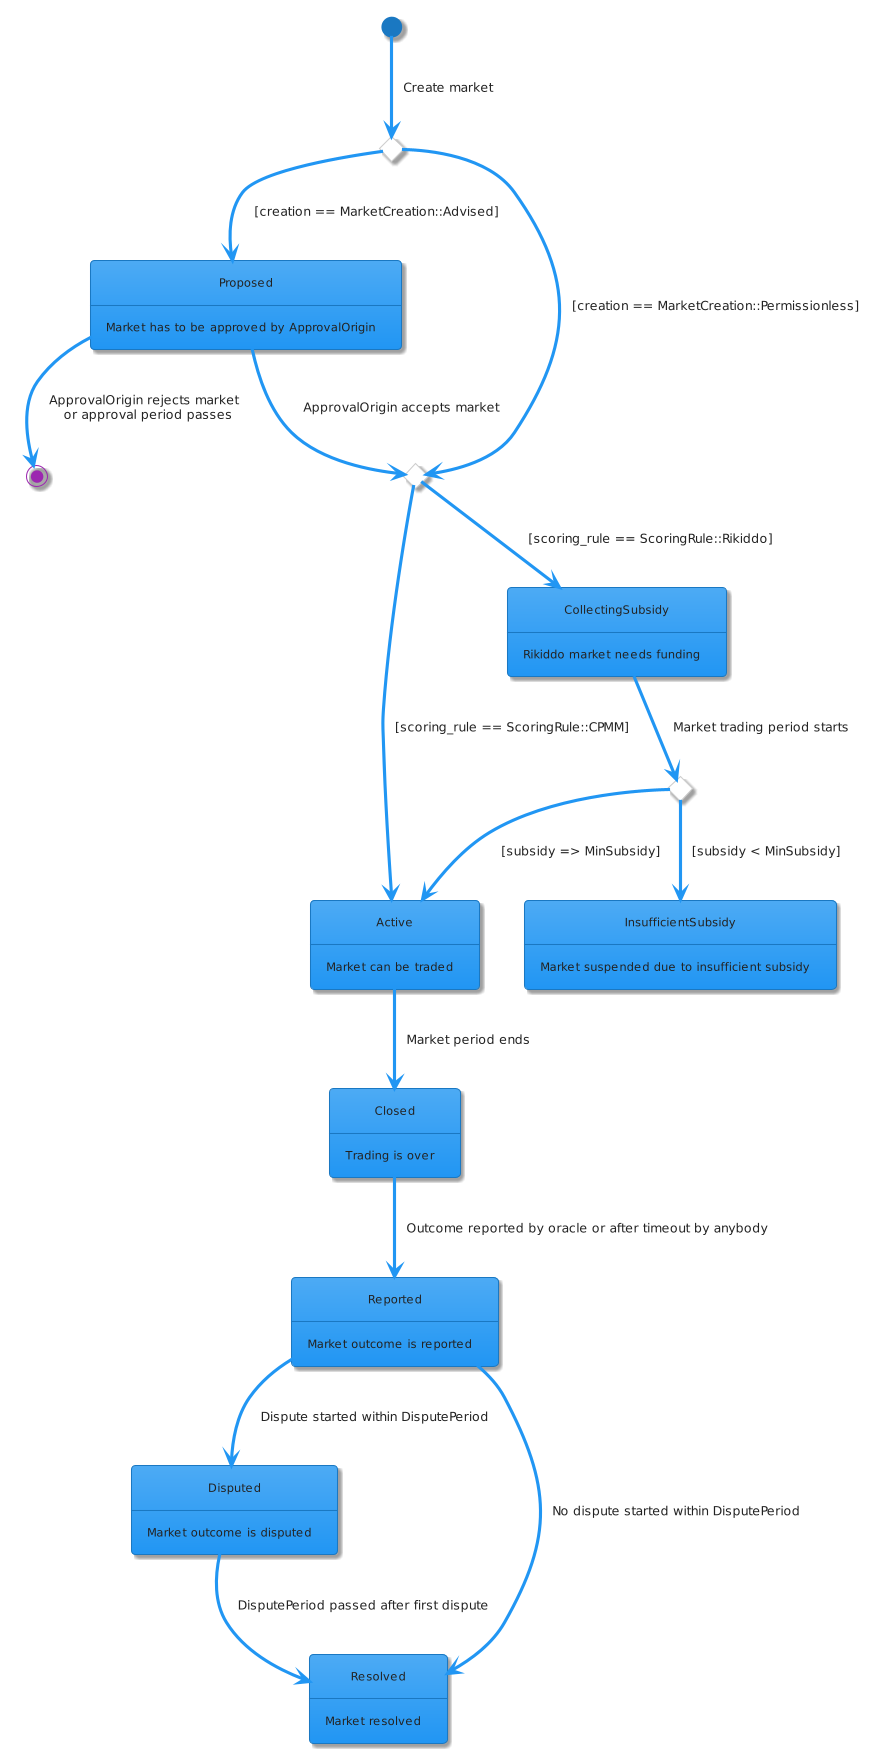
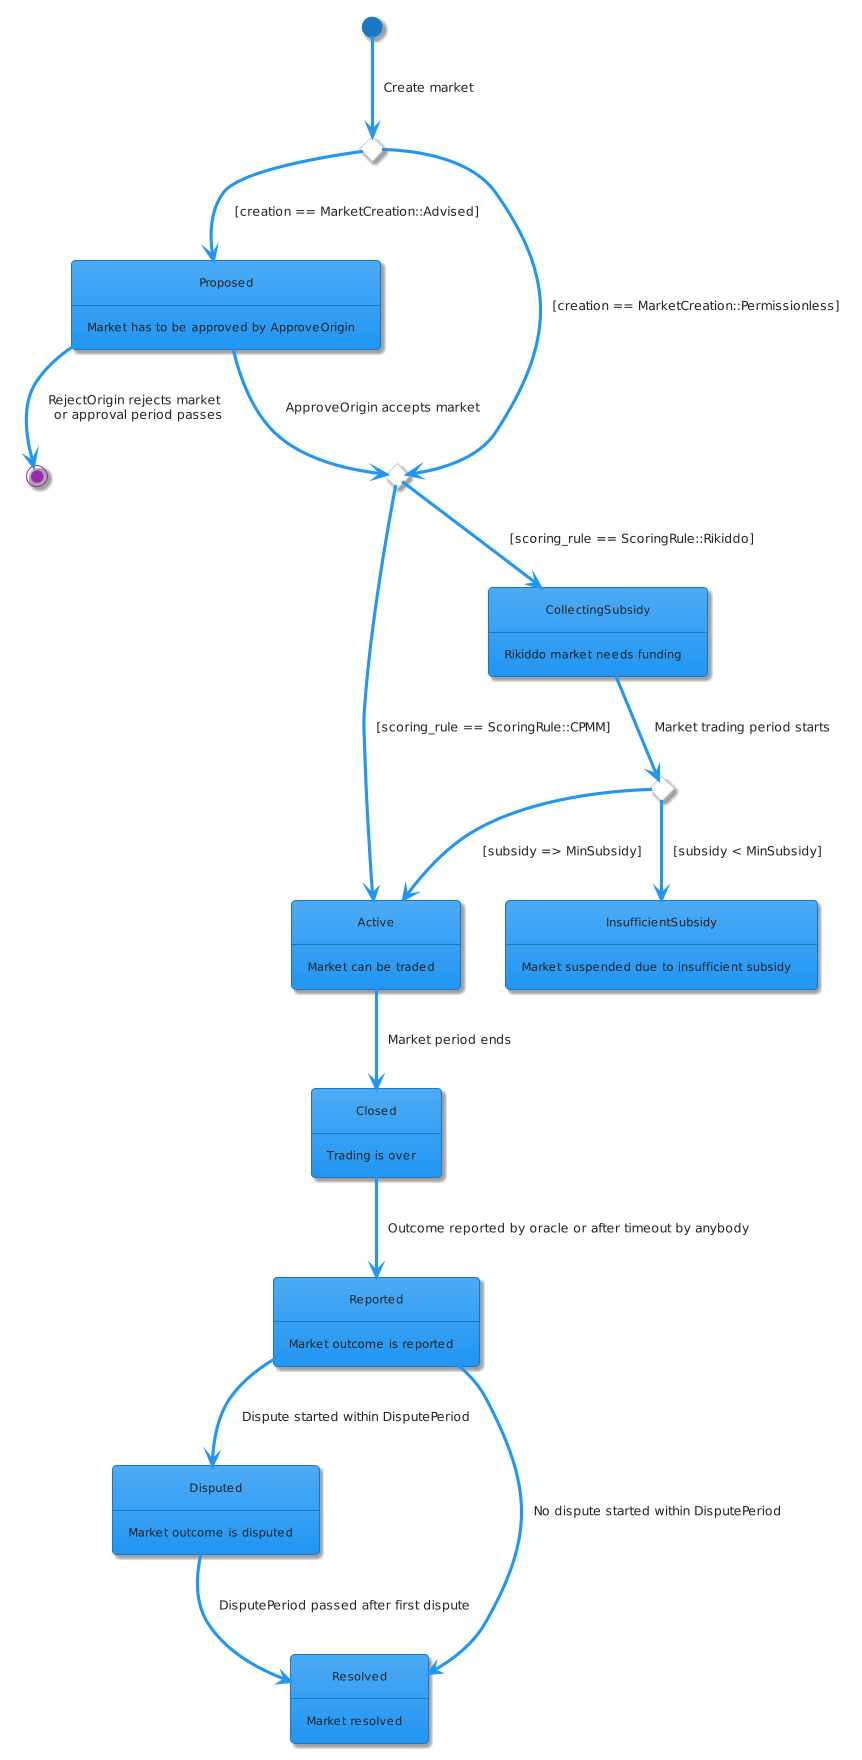
Allow market approval by single `AdvisoryCommittee` member (#744)
* Allow market approval by single AdvisoryCommittee member

Also makes any origin not have to pay fees for their service

* Update docs/diagrams/src/market_state_diagram.puml

* Update zrml/prediction-markets/src/lib.rs

* Update market state diagram

* Don't charge fees from special origin per default

diff --git a/zrml/prediction-markets/src/lib.rs b/zrml/prediction-markets/src/lib.rs
@@ -69,13 +69,16 @@
 //! governing body of Zeitgeist that is responsible for maintaining a list of high quality markets
 //! and slash low quality markets.
 //!
-//! #### `ApprovalOrigin` Dispatches
+//! #### `ApproveOrigin` and `RejectOrigin` Dispatches
 //!
 //! Users can also propose markets, which are subject to approval or rejection by the Advisory
-//! Committee. The `AdvisoryOrigin` calls the following dispatches:
+//! Committee. The `ApproveOrigin` calls the following dispatches:
 //!
 //! - `approve_market` - Approves a `Proposed` market that is waiting approval from the Advisory
 //!   Committee.
+//!
+//! The `RejectOrigin` calls the following dispatches:
+//!
 //! - `reject_market` -  Rejects a `Proposed` market that is waiting approval from the Advisory
 //!   Committee.
 
@@ -103,7 +106,9 @@ mod pallet {
         pallet_prelude::{ConstU32, StorageMap, StorageValue, ValueQuery},
         storage::{with_transaction, TransactionOutcome},
         traits::{EnsureOrigin, Get, Hooks, IsType, StorageVersion},
-        transactional, Blake2_128Concat, BoundedVec, PalletId, Twox64Concat,
+        transactional,
+        weights::Pays,
+        Blake2_128Concat, BoundedVec, PalletId, Twox64Concat,
     };
     use frame_system::{ensure_signed, pallet_prelude::OriginFor};
     use orml_traits::{MultiCurrency, NamedMultiReservableCurrency};
@@ -144,7 +149,7 @@ mod pallet {
         ///
         /// Must be called by `DestroyOrigin`. Bonds (unless already returned) are slashed without
         /// exception. Can currently only be used for destroying CPMM markets.
-        #[pallet::weight(
+        #[pallet::weight((
             T::WeightInfo::admin_destroy_reported_market(
                 900,
                 900,
@@ -153,8 +158,7 @@ mod pallet {
                 900,
                 900,
                 T::MaxCategories::get().into()
-            ))
-        )]
+            )), Pays::No))]
         #[transactional]
         pub fn admin_destroy_market(
             origin: OriginFor<T>,
@@ -232,22 +236,29 @@ mod pallet {
             Self::deposit_event(Event::MarketDestroyed(market_id));
 
             // Weight correction
+            // The DestroyOrigin should not pay fees for providing this service
             if market_status == MarketStatus::Reported {
-                Ok(Some(T::WeightInfo::admin_destroy_reported_market(
-                    total_accounts.saturated_into(),
-                    share_accounts.saturated_into(),
-                    outcome_assets_amount.saturated_into(),
-                ))
-                .into())
+                Ok((
+                    Some(T::WeightInfo::admin_destroy_reported_market(
+                        total_accounts.saturated_into(),
+                        share_accounts.saturated_into(),
+                        outcome_assets_amount.saturated_into(),
+                    )),
+                    Pays::No,
+                )
+                    .into())
             } else if market_status == MarketStatus::Disputed {
-                Ok(Some(T::WeightInfo::admin_destroy_disputed_market(
-                    total_accounts.saturated_into(),
-                    share_accounts.saturated_into(),
-                    outcome_assets_amount.saturated_into(),
-                ))
-                .into())
+                Ok((
+                    Some(T::WeightInfo::admin_destroy_disputed_market(
+                        total_accounts.saturated_into(),
+                        share_accounts.saturated_into(),
+                        outcome_assets_amount.saturated_into(),
+                    )),
+                    Pays::No,
+                )
+                    .into())
             } else {
-                Ok(None.into())
+                Ok((None, Pays::No).into())
             }
         }
 
@@ -257,12 +268,12 @@ mod pallet {
         //
         // Within the same block, operations that interact with the activeness of the same
         // market will behave differently before and after this call.
-        #[pallet::weight(T::WeightInfo::admin_move_market_to_closed())]
+        #[pallet::weight((T::WeightInfo::admin_move_market_to_closed(), Pays::No))]
         #[transactional]
         pub fn admin_move_market_to_closed(
             origin: OriginFor<T>,
             #[pallet::compact] market_id: MarketIdOf<T>,
-        ) -> DispatchResult {
+        ) -> DispatchResultWithPostInfo {
             // TODO(#638): Handle Rikiddo markets!
             T::CloseOrigin::ensure_origin(origin)?;
             let market = T::MarketCommons::market(&market_id)?;
@@ -270,19 +281,20 @@ mod pallet {
             Self::clear_auto_open(&market_id)?;
             Self::clear_auto_close(&market_id)?;
             Self::close_market(&market_id)?;
-            Ok(())
+            // The CloseOrigin should not pay fees for providing this service
+            Ok((None, Pays::No).into())
         }
 
         /// Allows the `ResolveOrigin` to immediately move a reported or disputed
         /// market to resolved.
         ////
-        #[pallet::weight(T::WeightInfo::admin_move_market_to_resolved_overhead()
+        #[pallet::weight((T::WeightInfo::admin_move_market_to_resolved_overhead()
             .saturating_add(T::WeightInfo::internal_resolve_categorical_reported(
                 4_200,
                 4_200,
                 T::MaxCategories::get().into()
             ).saturating_sub(T::WeightInfo::internal_resolve_scalar_reported())
-        ))]
+        ), Pays::No))]
         #[transactional]
         pub fn admin_move_market_to_resolved(
             origin: OriginFor<T>,
@@ -298,7 +310,7 @@ mod pallet {
             Self::clear_auto_resolve(&market_id)?;
             let market = T::MarketCommons::market(&market_id)?;
             let weight = Self::on_resolution(&market_id, &market)?;
-            Ok(Some(weight).into())
+            Ok((Some(weight), Pays::No).into())
         }
 
         /// Approves a market that is waiting for approval from the
@@ -307,15 +319,15 @@ mod pallet {
         /// NOTE: Returns the proposer's bond since the market has been
         /// deemed valid by an advisory committee.
         ///
-        /// NOTE: Can only be called by the `ApprovalOrigin`.
+        /// NOTE: Can only be called by the `ApproveOrigin`.
         ///
-        #[pallet::weight(T::WeightInfo::approve_market())]
+        #[pallet::weight((T::WeightInfo::approve_market(), Pays::No))]
         #[transactional]
         pub fn approve_market(
             origin: OriginFor<T>,
             #[pallet::compact] market_id: MarketIdOf<T>,
         ) -> DispatchResultWithPostInfo {
-            T::ApprovalOrigin::ensure_origin(origin)?;
+            T::ApproveOrigin::ensure_origin(origin)?;
             let mut extra_weight = 0;
             let mut status = MarketStatus::Active;
 
@@ -343,7 +355,9 @@ mod pallet {
             })?;
 
             Self::deposit_event(Event::MarketApproved(market_id, status));
-            Ok(Some(T::WeightInfo::approve_market().saturating_add(extra_weight)).into())
+            // The ApproveOrigin should not pay fees for providing this service
+            Ok((Some(T::WeightInfo::approve_market().saturating_add(extra_weight)), Pays::No)
+                .into())
         }
 
         /// Buy a complete set of outcome shares of a market.
@@ -858,18 +872,19 @@ mod pallet {
         }
 
         /// Rejects a market that is waiting for approval from the advisory committee.
-        #[pallet::weight(T::WeightInfo::reject_market())]
+        #[pallet::weight((T::WeightInfo::reject_market(), Pays::No))]
         #[transactional]
         pub fn reject_market(
             origin: OriginFor<T>,
             #[pallet::compact] market_id: MarketIdOf<T>,
-        ) -> DispatchResult {
-            T::ApprovalOrigin::ensure_origin(origin)?;
+        ) -> DispatchResultWithPostInfo {
+            T::RejectOrigin::ensure_origin(origin)?;
             let market = T::MarketCommons::market(&market_id)?;
             Self::clear_auto_open(&market_id)?;
             Self::clear_auto_close(&market_id)?;
             Self::do_reject_market(&market_id, market)?;
-            Ok(())
+            // The RejectOrigin should not pay fees for providing this service
+            Ok((None, Pays::No).into())
         }
 
         /// Reports the outcome of a market.
@@ -1001,7 +1016,14 @@ mod pallet {
         type AdvisoryBond: Get<BalanceOf<Self>>;
 
         /// The origin that is allowed to approve / reject pending advised markets.
-        type ApprovalOrigin: EnsureOrigin<Self::Origin>;
+        type ApproveOrigin: EnsureOrigin<Self::Origin>;
+
+        /// Shares of outcome assets and native currency
+        type AssetManager: ZeitgeistAssetManager<
+            Self::AccountId,
+            CurrencyId = Asset<MarketIdOf<Self>>,
+            ReserveIdentifier = [u8; 8],
+        >;
 
         /// See [`AuthorizedPalletApi`].
         type Authorized: zrml_authorized::AuthorizedPalletApi<
@@ -1081,16 +1103,12 @@ mod pallet {
         /// The maximum allowed timepoint for the market period (timestamp or blocknumber).
         type MaxMarketPeriod: Get<u64>;
 
-        /// Shares of outcome assets and native currency
-        type AssetManager: ZeitgeistAssetManager<
-            Self::AccountId,
-            CurrencyId = Asset<MarketIdOf<Self>>,
-            ReserveIdentifier = [u8; 8],
-        >;
-
         /// The module identifier.
         #[pallet::constant]
         type PalletId: Get<PalletId>;
+
+        /// The origin that is allowed to reject pending advised markets.
+        type RejectOrigin: EnsureOrigin<Self::Origin>;
 
         /// The base amount of currency that must be bonded to ensure the oracle reports
         ///  in a timely manner.

diff --git a/zrml/prediction-markets/src/benchmarks.rs b/zrml/prediction-markets/src/benchmarks.rs
@@ -98,7 +98,7 @@ fn create_close_and_report_market<T: Config>(
 ) -> Result<(T::AccountId, MarketIdOf<T>), &'static str> {
     let (caller, market_id) = create_market_common::<T>(permission, options, ScoringRule::CPMM)?;
     let _ = Call::<T>::admin_move_market_to_closed { market_id }
-        .dispatch_bypass_filter(T::ApprovalOrigin::successful_origin())?;
+        .dispatch_bypass_filter(T::CloseOrigin::successful_origin())?;
     let _ = Call::<T>::report { market_id, outcome }
         .dispatch_bypass_filter(RawOrigin::Signed(caller.clone()).into())?;
     Ok((caller, market_id))
@@ -183,13 +183,14 @@ fn setup_redeem_shares_common<T: Config>(
         market_id,
         MinLiquidity::get().saturated_into(),
     )?;
-    let approval_origin = T::ApprovalOrigin::successful_origin();
+    let close_origin = T::CloseOrigin::successful_origin();
+    let resolve_origin = T::ResolveOrigin::successful_origin();
     let _ = Call::<T>::admin_move_market_to_closed { market_id }
-        .dispatch_bypass_filter(approval_origin.clone())?;
+        .dispatch_bypass_filter(close_origin)?;
     let _ = Call::<T>::report { market_id, outcome }
         .dispatch_bypass_filter(RawOrigin::Signed(caller.clone()).into())?;
     let _ = Call::<T>::admin_move_market_to_resolved { market_id }
-        .dispatch_bypass_filter(approval_origin)?;
+        .dispatch_bypass_filter(resolve_origin)?;
     Ok((caller, market_id))
 }
 
@@ -275,9 +276,9 @@ benchmarks! {
             MarketType::Categorical(T::MaxCategories::get()),
             ScoringRule::CPMM
         )?;
-        let approval_origin = T::ApprovalOrigin::successful_origin();
+        let close_origin = T::CloseOrigin::successful_origin();
         let call = Call::<T>::admin_move_market_to_closed { market_id };
-    }: { call.dispatch_bypass_filter(approval_origin)? }
+    }: { call.dispatch_bypass_filter(close_origin)? }
 
     // This benchmark measures the cost of fn `admin_move_market_to_resolved`
     // and assumes a scalar market is used. The default cost for this function
@@ -287,9 +288,9 @@ benchmarks! {
         let total_accounts = 10u32;
         let asset_accounts = 10u32;
         let (_, market_id) = setup_resolve_common_scalar::<T>(total_accounts, asset_accounts)?;
-        let approval_origin = T::ApprovalOrigin::successful_origin();
+        let close_origin = T::CloseOrigin::successful_origin();
         let call = Call::<T>::admin_move_market_to_resolved { market_id };
-    }: { call.dispatch_bypass_filter(approval_origin)? }
+    }: { call.dispatch_bypass_filter(close_origin)? }
 
     approve_market {
         let (_, market_id) = create_market_common::<T>(
@@ -298,9 +299,9 @@ benchmarks! {
             ScoringRule::CPMM
         )?;
 
-        let origin = T::ApprovalOrigin::successful_origin();
+        let approve_origin = T::ApproveOrigin::successful_origin();
         let call = Call::<T>::approve_market { market_id };
-    }: { call.dispatch_bypass_filter(origin)? }
+    }: { call.dispatch_bypass_filter(approve_origin)? }
 
     buy_complete_set {
         let a in (T::MinCategories::get().into())..T::MaxCategories::get().into();
@@ -481,9 +482,9 @@ benchmarks! {
             MarketType::Categorical(T::MaxCategories::get()),
             ScoringRule::CPMM
         )?;
-        let approval_origin = T::ApprovalOrigin::successful_origin();
+        let reject_origin = T::RejectOrigin::successful_origin();
         let call = Call::<T>::reject_market { market_id };
-    }: { call.dispatch_bypass_filter(approval_origin)? }
+    }: { call.dispatch_bypass_filter(reject_origin)? }
 
     report {
         let (caller, market_id) = create_market_common::<T>(
@@ -492,9 +493,9 @@ benchmarks! {
             ScoringRule::CPMM
         )?;
         let outcome = OutcomeReport::Categorical(0);
-        let approval_origin = T::ApprovalOrigin::successful_origin();
+        let close_origin = T::CloseOrigin::successful_origin();
         let _ = Call::<T>::admin_move_market_to_closed { market_id }
-            .dispatch_bypass_filter(approval_origin)?;
+            .dispatch_bypass_filter(close_origin)?;
     }: _(RawOrigin::Signed(caller), market_id, outcome)
 
     sell_complete_set {

diff --git a/runtime/common/src/lib.rs b/runtime/common/src/lib.rs
@@ -851,7 +851,10 @@ macro_rules! impl_config_traits {
 
         impl zrml_prediction_markets::Config for Runtime {
             type AdvisoryBond = AdvisoryBond;
-            type ApprovalOrigin = EnsureRootOrHalfAdvisoryCommittee;
+            type ApproveOrigin = EnsureOneOf<
+                EnsureRoot<AccountId>,
+                pallet_collective::EnsureMember<AccountId, AdvisoryCommitteeInstance>
+            >;
             type Authorized = Authorized;
             type Court = Court;
             type CloseOrigin = EnsureRootOrTwoThirdsAdvisoryCommittee;
@@ -873,6 +876,7 @@ macro_rules! impl_config_traits {
             type MinSubsidyPeriod = MinSubsidyPeriod;
             type OracleBond = OracleBond;
             type PalletId = PmPalletId;
+            type RejectOrigin = EnsureRootOrHalfAdvisoryCommittee;
             type ReportingPeriod = ReportingPeriod;
             type ResolveOrigin = EnsureRoot<AccountId>;
             type AssetManager = AssetManager;

diff --git a/zrml/prediction-markets/src/mock.rs b/zrml/prediction-markets/src/mock.rs
@@ -98,7 +98,7 @@ construct_runtime!(
 
 impl crate::Config for Runtime {
     type AdvisoryBond = AdvisoryBond;
-    type ApprovalOrigin = EnsureSignedBy<Sudo, AccountIdTest>;
+    type ApproveOrigin = EnsureSignedBy<Sudo, AccountIdTest>;
     type Authorized = Authorized;
     type CloseOrigin = EnsureSignedBy<Sudo, AccountIdTest>;
     type Court = Court;
@@ -117,6 +117,7 @@ impl crate::Config for Runtime {
     type MinSubsidyPeriod = MinSubsidyPeriod;
     type OracleBond = OracleBond;
     type PalletId = PmPalletId;
+    type RejectOrigin = EnsureSignedBy<Sudo, AccountIdTest>;
     type ResolveOrigin = EnsureSignedBy<Sudo, AccountIdTest>;
     type ReportingPeriod = ReportingPeriod;
     type AssetManager = AssetManager;
